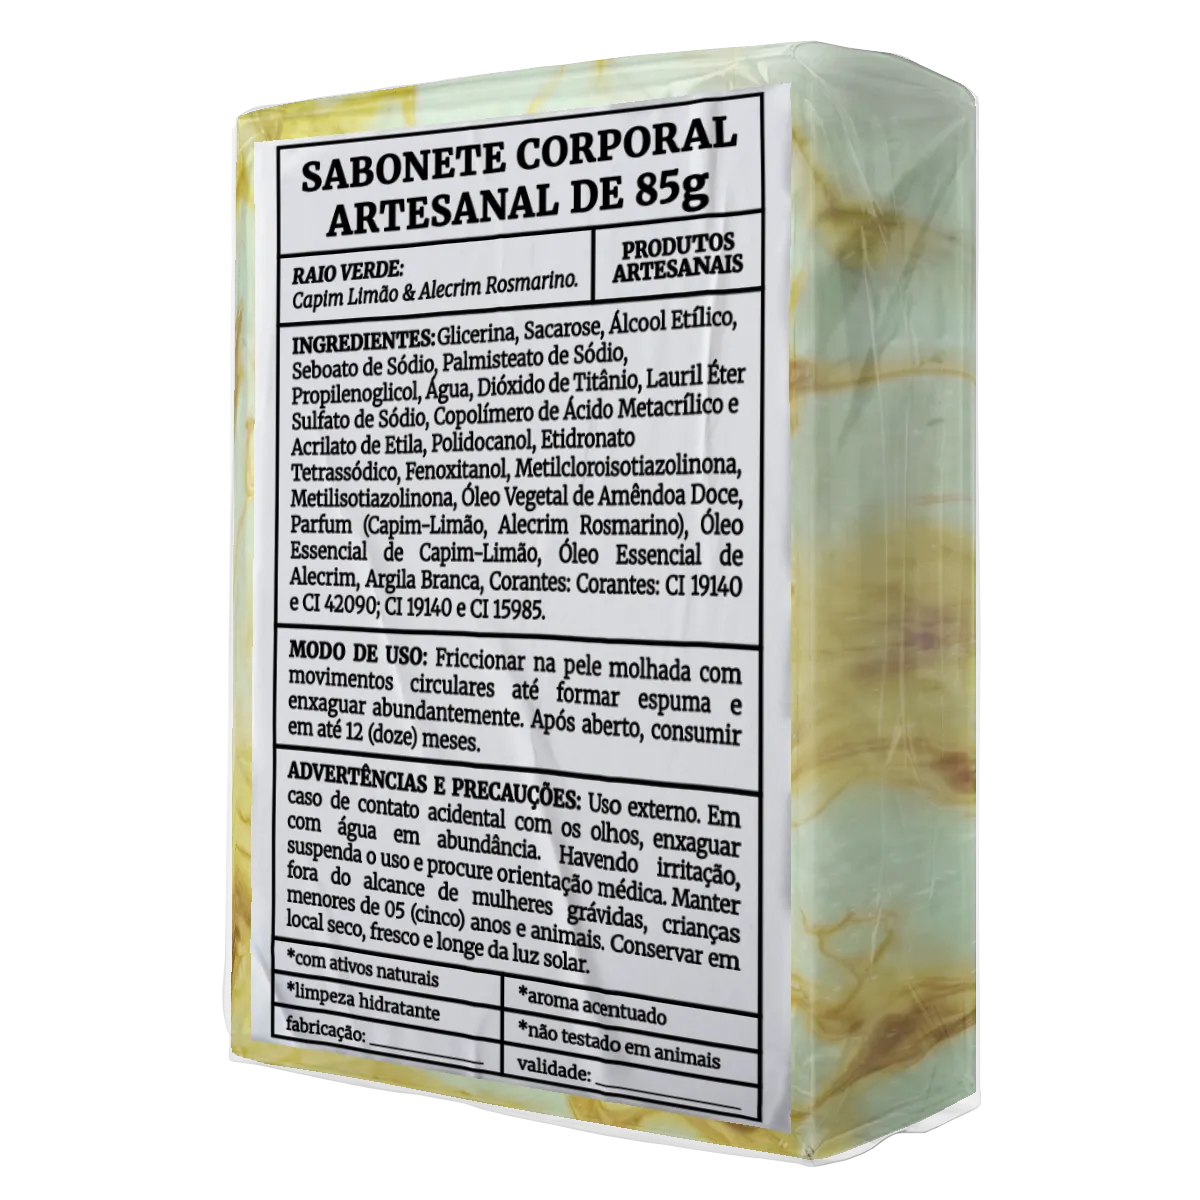
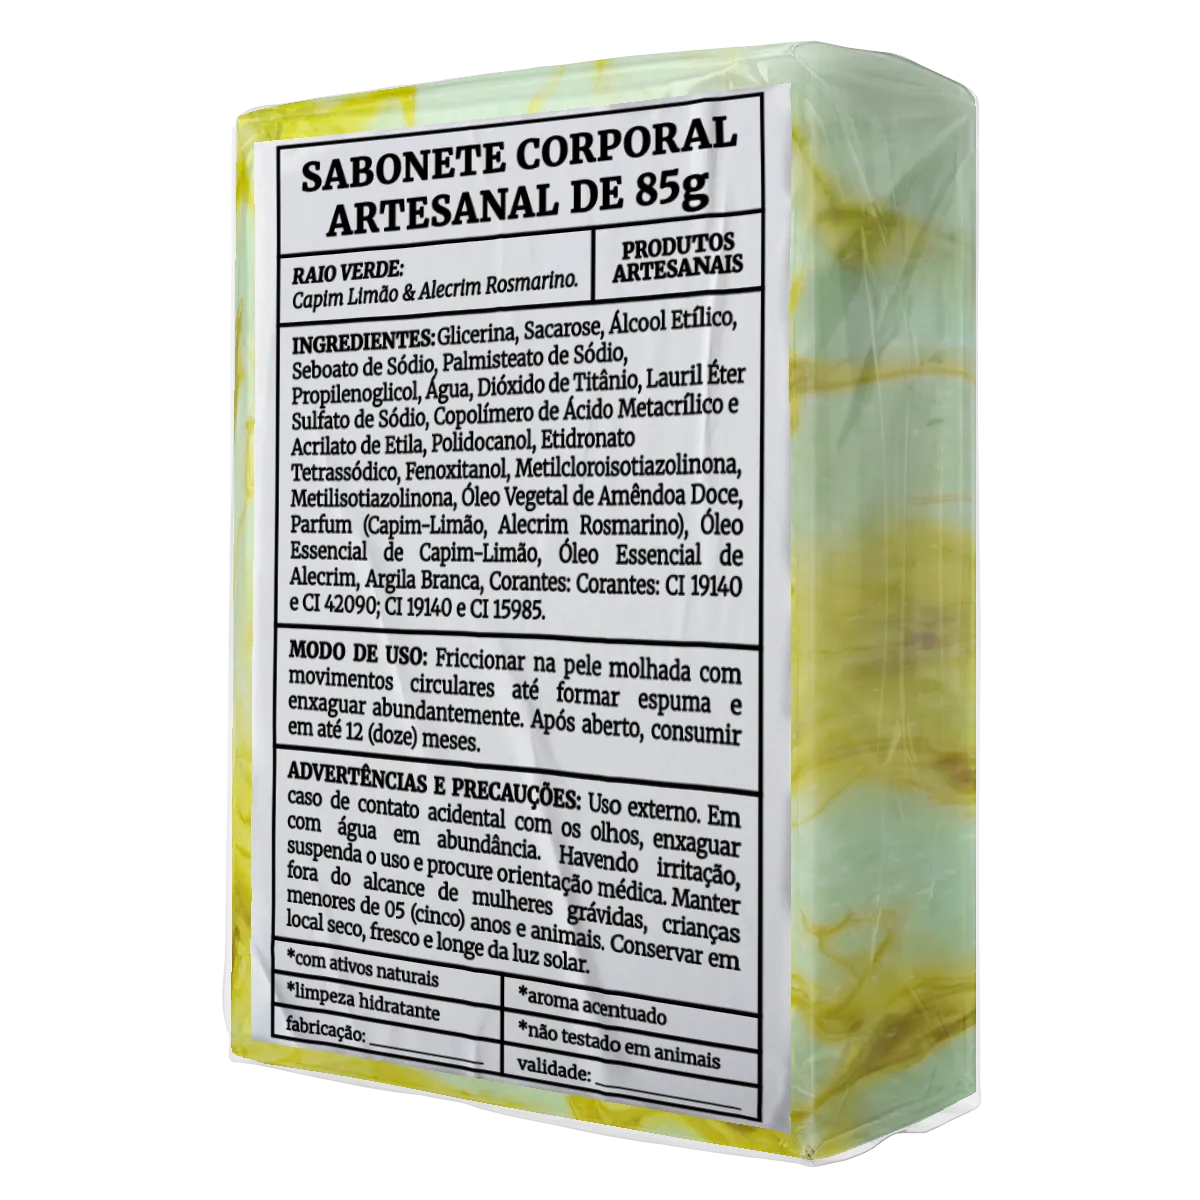
novo

diff --git a/produtos.js b/produtos.js
@@ -490,7 +490,7 @@ const BANCO_PRODUTOS = [
     precoDesconto: "",
     subtitulo: "[1 un. / 85g].",
     esgotado: false,
-    imagemFrente: "produtos/sabonete-corporal.webp",
+    imagemFrente: "produtos/sabonete-corporal-mercurio-floral.webp",
     tags: {
       linha: "linhas-classico",
       funcao: "funcao-sabonete-corporal",
